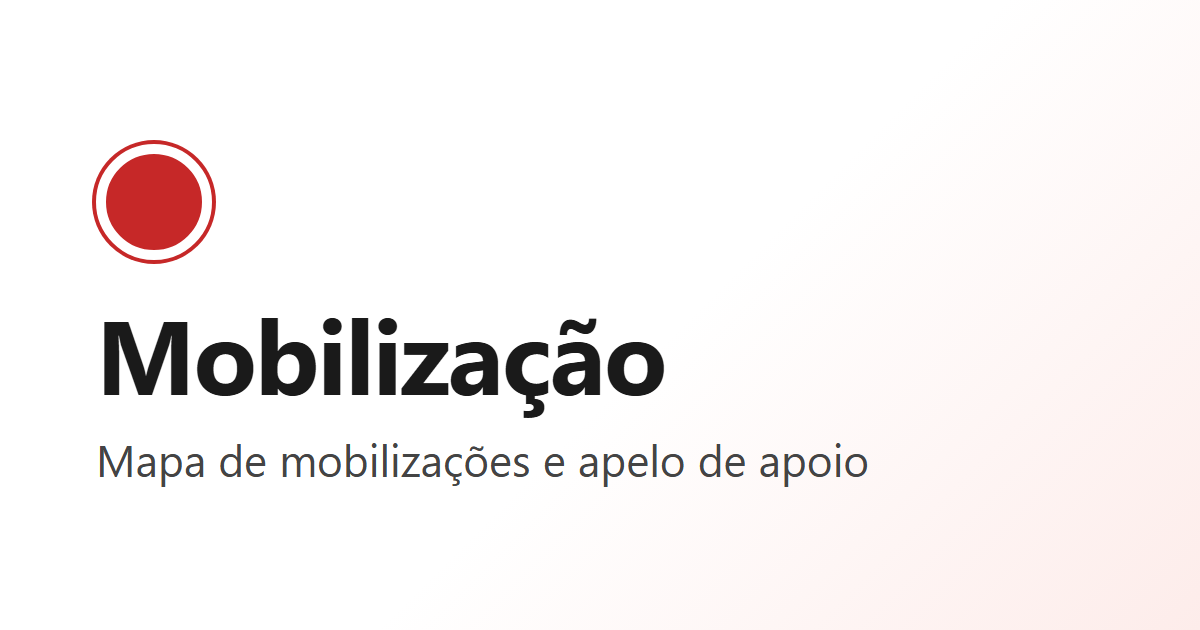
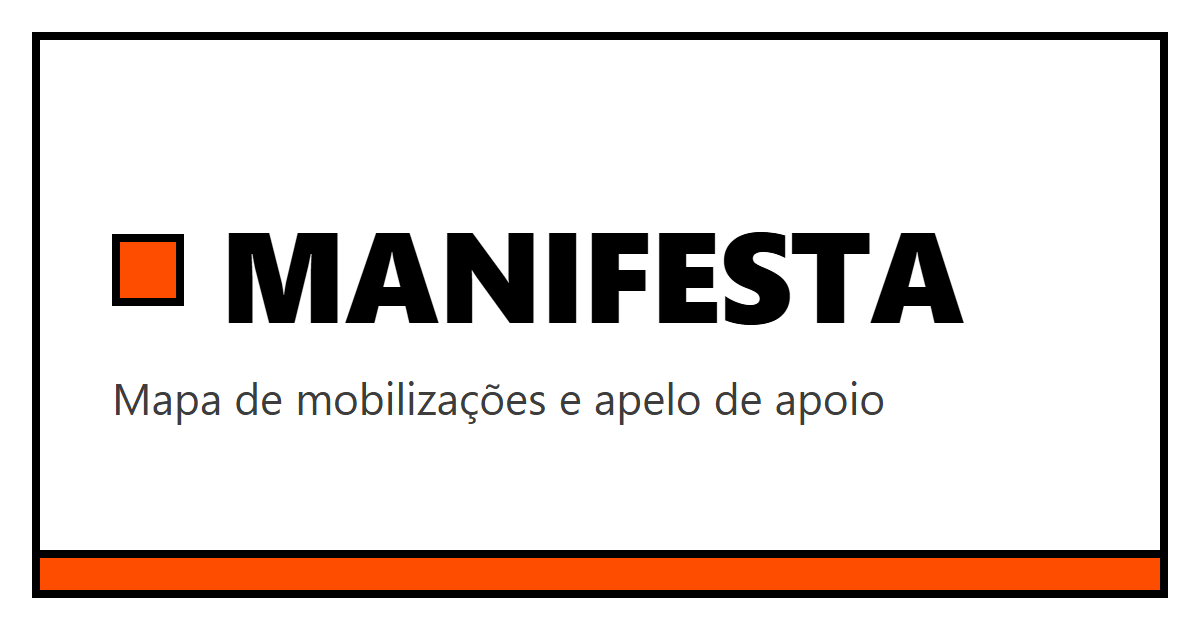
Move to manifesta.pt and rename the site to "Manifesta"
- Worker custom domain manifesta.pt; pedroduarte.eu and www will 301 via
  zone Redirect Rules (docs/deploy.md §9).
- APP_NAME and site title "Manifesta"; drop the Porto mayor domain note,
  which only existed because of the old domain.
- Link-preview image redrawn in the acid theme.
- Decision #75; D2 closed.

Changed region(s): [[0.0, 0.0302, 0.9867, 0.9651], [0.0617, 0.2111, 0.8017, 0.6635], [0.0617, 0.6937, 0.74, 0.7841]]

diff --git a/scripts/og-image.ts b/scripts/og-image.ts
@@ -11,19 +11,25 @@ const OUT = resolve(import.meta.dirname, '../public/og.png');
 
 const esc = (s: string) => s.replace(/[&<>"]/g, (c) => `&#${c.charCodeAt(0)};`);
 
+// Acid theme (src/styles/base.css, docs/decisions.md #70): white, black lines,
+// orange accent, square marks, heavy uppercase title.
 const html = `<!doctype html><html lang="pt-PT"><head><meta charset="utf-8"><style>
-  body { margin: 0; width: 1200px; height: 630px; display: flex; align-items: center;
-    font-family: system-ui, 'Segoe UI', sans-serif; color: #1a1a1a;
-    background: linear-gradient(135deg, #fff 0%, #fff 55%, #fdecea 100%); }
-  .wrap { padding: 0 96px; }
-  .dot { width: 96px; height: 96px; border-radius: 50%; background: #c62828;
-    border: 10px solid #fff; box-shadow: 0 0 0 4px #c62828; margin-bottom: 40px; }
-  h1 { font-size: 104px; line-height: 1; margin: 0 0 28px; letter-spacing: -2px; }
-  p { font-size: 44px; line-height: 1.25; margin: 0; color: #444; max-width: 900px; }
-</style></head><body><div class="wrap">
-  <div class="dot"></div>
-  <h1>${esc(pt.site.title)}</h1>
+  * { box-sizing: border-box; }
+  body { margin: 0; width: 1200px; height: 630px; background: #fff; color: #000;
+    font-family: 'Archivo', system-ui, sans-serif; }
+  .frame { position: absolute; inset: 32px; border: 8px solid #000; display: flex;
+    flex-direction: column; justify-content: center; padding: 0 72px; }
+  .bar { position: absolute; left: 0; right: 0; bottom: 0; height: 40px; background: #ff4d00;
+    border-top: 8px solid #000; }
+  .title { display: flex; align-items: center; gap: 36px; margin-bottom: 36px; }
+  .mark { width: 72px; height: 72px; flex: none; background: #ff4d00; border: 8px solid #000; }
+  h1 { font-size: 128px; font-weight: 800; line-height: 1; margin: 0; letter-spacing: -2px;
+    text-transform: uppercase; }
+  p { font-size: 44px; line-height: 1.25; margin: 0; color: #3d3d3d; max-width: 900px; }
+</style></head><body><div class="frame">
+  <div class="title"><div class="mark"></div><h1>${esc(pt.site.title)}</h1></div>
   <p>${esc(pt.site.tagline)}</p>
+  <div class="bar"></div>
 </div></body></html>`;
 
 const browser = await chromium.launch();

diff --git a/tests/e2e/map.spec.ts b/tests/e2e/map.spec.ts
@@ -124,7 +124,7 @@ test.describe('map page (/)', () => {
   }) => {
     await page.goto('/mapa?quando=hoje');
     await expect(page).toHaveURL(/\/\?quando=hoje$/);
-    await expect(page.getByRole('heading', { level: 1, name: 'Mobilização' })).toBeVisible();
+    await expect(page.getByRole('heading', { level: 1, name: 'Manifesta' })).toBeVisible();
   });
 
   test('the intro makes room for the filters and the event sheet on a phone', async ({
@@ -135,16 +135,13 @@ test.describe('map page (/)', () => {
     const intro = page.locator('.map-app .map-intro');
     await expect(intro).toBeVisible();
     await expect(intro).toContainText('Manifestações, concentrações e assembleias');
-    await expect(intro).toContainText(
-      'não tem qualquer ligação ao Presidente da Câmara Municipal do Porto',
-    );
     await shot(page, '00-intro', info.project.name);
 
     await page.locator('#summary-button').click();
     await expect(page.locator('#filters')).toBeVisible();
     await expect(intro).toBeHidden();
     // The h1 stays for screen readers.
-    await expect(page.getByRole('heading', { level: 1, name: 'Mobilização' })).toBeAttached();
+    await expect(page.getByRole('heading', { level: 1, name: 'Manifesta' })).toBeAttached();
 
     // Choosing an event closes the filters.
     await page.getByRole('button', { name: 'Ver resultados' }).click();

diff --git a/src/i18n/pt.ts b/src/i18n/pt.ts
@@ -1,9 +1,9 @@
 /** All UI strings, in European Portuguese (pt-PT). */
 export const pt = {
   site: {
-    title: 'Mobilização',
+    title: 'Manifesta',
     tagline: 'Mapa de mobilizações e apelo de apoio',
-    ogImageAlt: 'Mobilização: mapa de eventos e apelo de apoio',
+    ogImageAlt: 'Manifesta: mapa de eventos e apelo de apoio',
   },
   nav: {
     map: 'Mapa',
@@ -24,8 +24,6 @@ export const pt = {
     heading: 'Mapa de eventos',
     description:
       'Manifestações, concentrações e assembleias em todo o país, do continente às ilhas. Filtra por dia e tipo, ou adiciona um evento.',
-    domainNote:
-      'Este site é um projeto independente e não tem qualquer ligação ao Presidente da Câmara Municipal do Porto nem à Câmara Municipal. A semelhança do nome é pura coincidência.',
     noscript:
       'O mapa e a lista de eventos precisam de JavaScript. Ativa o JavaScript no teu browser para os veres.',
     loading: 'A carregar eventos…',

diff --git a/src/config/app.ts b/src/config/app.ts
@@ -1,7 +1,7 @@
 /** App-wide configuration. See docs/decisions.md for the reasoning behind each default. */
 
 /** D2 — placeholder until name/domain is decided. */
-export const APP_NAME = 'Mobilização';
+export const APP_NAME = 'Manifesta';
 
 /** D8 — data controller (GDPR). Must be filled in before launch (phase 7). */
 export const DATA_CONTROLLER = {

diff --git a/src/components/map/MapIntro.tsx b/src/components/map/MapIntro.tsx
@@ -22,7 +22,6 @@ export function MapIntro({ hidden = false, shell = false }: Props) {
         </Title>
       </div>
       <p>{pt.map.description}</p>
-      <p class="map-intro-note">{pt.map.domainNote}</p>
     </section>
   );
 }

diff --git a/src/styles/map.css b/src/styles/map.css
@@ -81,12 +81,6 @@ body.map-page {
   text-wrap: pretty;
 }
 
-.map-intro > .map-intro-note {
-  font-size: 0.75rem;
-  line-height: 1.35;
-  color: var(--muted);
-}
-
 .topbar {
   flex: 0 0 auto;
   display: flex;

diff --git a/docs/decisions.md b/docs/decisions.md
@@ -4,16 +4,16 @@ Registo das decisões tomadas, por ordem. Para as decisões em aberto do `SPEC.m
 
 ## Decisões em aberto (SPEC §11) — 2026-10-17
 
-| #   | Decisão                            | Valor                                                        | Estado                                                                                                                      |
-| --- | ---------------------------------- | ------------------------------------------------------------ | --------------------------------------------------------------------------------------------------------------------------- |
-| D1  | Alojamento                         | Cloudflare (Workers + D1 + R2)                               | Confirmada. Lógica isolada em `services/` e na porta `Db` (`src/server/repos/db.ts`), para poder trocar para Node + SQLite. |
-| D2  | Nome/domínio/identidade            | Placeholder `APP_NAME = 'Mobilização'` (`src/config/app.ts`) | **Por decidir**                                                                                                             |
-| D3  | `MODERATION_MODE`                  | `post` (publica logo, com selo "não confirmado")             | Confirmada                                                                                                                  |
-| D4  | Provider de email                  | Resend (atrás da interface `Mailer`)                         | Confirmada; implementação na Fase 5                                                                                         |
-| D5  | `KEY_DATES`                        | Nenhuma                                                      | Confirmada                                                                                                                  |
-| D6  | Concelho vs código postal          | Concelho (select com os 308)                                 | Confirmada                                                                                                                  |
-| D7  | Camadas de dados abertos           | Fora da v1                                                   | Confirmada                                                                                                                  |
-| D8  | Responsável pelo tratamento (RGPD) | Placeholder `DATA_CONTROLLER` em `src/config/app.ts`         | **Por decidir** antes da Fase 7                                                                                             |
+| #   | Decisão                            | Valor                                                           | Estado                                                                                                                      |
+| --- | ---------------------------------- | --------------------------------------------------------------- | --------------------------------------------------------------------------------------------------------------------------- |
+| D1  | Alojamento                         | Cloudflare (Workers + D1 + R2)                                  | Confirmada. Lógica isolada em `services/` e na porta `Db` (`src/server/repos/db.ts`), para poder trocar para Node + SQLite. |
+| D2  | Nome/domínio/identidade            | "Manifesta" em `manifesta.pt` (`APP_NAME`, `src/config/app.ts`) | Confirmada (#65, #75)                                                                                                       |
+| D3  | `MODERATION_MODE`                  | `post` (publica logo, com selo "não confirmado")                | Confirmada                                                                                                                  |
+| D4  | Provider de email                  | Resend (atrás da interface `Mailer`)                            | Confirmada; implementação na Fase 5                                                                                         |
+| D5  | `KEY_DATES`                        | Nenhuma                                                         | Confirmada                                                                                                                  |
+| D6  | Concelho vs código postal          | Concelho (select com os 308)                                    | Confirmada                                                                                                                  |
+| D7  | Camadas de dados abertos           | Fora da v1                                                      | Confirmada                                                                                                                  |
+| D8  | Responsável pelo tratamento (RGPD) | Placeholder `DATA_CONTROLLER` em `src/config/app.ts`            | **Por decidir** antes da Fase 7                                                                                             |
 
 ## Datas e filtros
 
@@ -222,7 +222,7 @@ Registo das decisões tomadas, por ordem. Para as decisões em aberto do `SPEC.m
 
 ## Deploy (17/10/2026)
 
-65. **D2 — domínio:** `pedroduarte.eu` (Custom Domain do Worker, `[[routes]]` no `wrangler.toml`). O nome do site continua "Mobilização" (`APP_NAME`, por decidir).
+65. **D2 — domínio:** `pedroduarte.eu` (Custom Domain do Worker, `[[routes]]` no `wrangler.toml`). O nome do site continua "Mobilização" (`APP_NAME`, por decidir). Substituído por `manifesta.pt` em #75.
 66. **Recursos de produção** (conta Cloudflare do utilizador): D1 `mobilizacao-pt` e bucket R2 `mobilizacao-tiles`, ambos na Europa Ocidental (`weur`); KV `RATE_LIMIT`. Mapa base: extrato do build Protomaps `20261017` (zoom 0–15, 1,06 GB), carregado com `rclone`.
 67. **Turnstile em modo Managed** (escolha do utilizador): normalmente invisível; mostra uma caixa a confirmar só quando a Cloudflare tem dúvidas. O cliente já usa `appearance: 'interaction-only'`, por isso o widget só aparece nesses casos.
 68. **Administração:** para já, um único endereço em `ADMIN_EMAILS` (secret).
@@ -230,7 +230,7 @@ Registo das decisões tomadas, por ordem. Para as decisões em aberto do `SPEC.m
     - O GeoJSON ficava 60 s em cache no browser e na edge, e o mapa voltava a pedir a lista e recebia a cópia antiga.
     - Agora a cache de 60 s é só na edge. O browser recebe `max-age=0, must-revalidate`; o mesmo vale para `/api/events/:id` e para os contadores e a lista das assinaturas.
     - Criar, editar, reportar ou moderar um evento apaga a cópia da edge no centro de dados de quem fez a alteração, e o mapa pede a lista sem cache depois de criar. Quem muda vê na hora; os outros visitantes, no máximo 60 s depois.
-    - `wrangler dev` passa a usar `--local-upstream`: com a rota `pedroduarte.eu` no `wrangler.toml`, os pedidos locais passariam a ter o URL de produção (links de email locais errados e a caixa de correio de dev bloqueada).
+    - `wrangler dev` passa a usar `--local-upstream`: com a rota do domínio de produção no `wrangler.toml`, os pedidos locais passariam a ter o URL de produção (links de email locais errados e a caixa de correio de dev bloqueada).
 
 ## Tema ácido (17/10/2026)
 
@@ -262,3 +262,13 @@ Registo das decisões tomadas, por ordem. Para as decisões em aberto do `SPEC.m
     - Os dias são gerados no cliente pelo filtro puro (`withOngoingDays` em `src/shared/event-filter.ts`, recebe `now`): uma ocorrência "todo o dia" por data local, de ontem (termina às 06:00, #73) até `LIMITS.dayStripDays` dias à frente, nunca antes de `ongoingSince`. Assim não é preciso cron e a cache do GeoJSON não fica desatualizada. Datas reais ficam como estão (a sua hora; cancelada continua cancelada).
     - Ficha e lista mostram uma linha "Todos os dias desde seg, 12 out" em vez das datas; a ficha lista só as datas reais, não as geradas.
     - Retenção: eventos sem fim nunca são apagados automaticamente; para os limpar, tira-se a marca.
+
+## Domínio manifesta.pt (19/10/2026)
+
+75. **Domínio principal `manifesta.pt` e nome "Manifesta"** (D2 fechada).
+    - Custom Domain do Worker passa a `manifesta.pt` (`[[routes]]` no `wrangler.toml`); `PUBLIC_SITE_URL=https://manifesta.pt` no `.env.production`. `APP_NAME` e `pt.site.title` passam a "Manifesta"; `public/og.png` regenerado, agora com o tema ácido (moldura preta, quadrado laranja, título em maiúsculas; `scripts/og-image.ts`).
+    - `pedroduarte.eu` responde 301 para `https://manifesta.pt`, com o mesmo caminho e a query, através de uma Redirect Rule na zona (corre antes do Worker, por isso apanha também os ficheiros estáticos). Os links já partilhados (`/mapa/e/<id>`) e os links de edição (`/editar/#…`, o browser mantém o fragmento) continuam a funcionar.
+    - `www.manifesta.pt` responde 301 para o apex, também por Redirect Rule.
+    - A nota "sem ligação ao Presidente da Câmara Municipal do Porto" (`pt.map.domainNote`) foi retirada: só existia por causa do domínio antigo.
+    - Os recursos internos mantêm o nome (Worker e D1 `mobilizacao-pt`, bucket `mobilizacao-tiles`): renomeá-los obrigaria a migrar os dados e os tiles, sem ganho para quem visita.
+    - Os links nos emails continuam a usar a origem do pedido, por isso não há URLs de produção no código.

diff --git a/docs/deploy.md b/docs/deploy.md
@@ -5,7 +5,7 @@ Os comandos são para PowerShell; com `npx`, corre-os na raiz do projeto.
 
 ## 0. Antes de começar
 
-- **Domínio (D2)** na Cloudflare, por exemplo `exemplo.pt`. É preciso para o Resend (emails de
+- **Domínio (D2)** na Cloudflare: `manifesta.pt` (`docs/decisions.md` #75). É preciso para o Resend (emails de
   entrada no admin) e para os URLs absolutos das pré-visualizações de links. O `*.workers.dev`
   chega para testar.
 - **Plano Workers Paid (5 USD/mês), recomendado.** No plano gratuito:
@@ -55,7 +55,7 @@ email só serve para os links de entrada no admin.
 npx wrangler secret put TURNSTILE_SECRET_KEY
 npx wrangler secret put RATE_LIMIT_SECRET   # node -e "console.log(require('crypto').randomBytes(32).toString('base64url'))"
 npx wrangler secret put RESEND_API_KEY
-npx wrangler secret put MAIL_FROM           # ex.: Mobilização <nao-responder@exemplo.pt>
+npx wrangler secret put MAIL_FROM           # ex.: Manifesta <nao-responder@manifesta.pt>
 npx wrangler secret put ADMIN_EMAILS        # ex.: pessoa1@exemplo.pt,pessoa2@exemplo.pt
 ```
 
@@ -69,7 +69,7 @@ do Astro e pelo `deploy:check`). Variáveis definidas na shell têm precedência
 ```powershell
 # .env.production
 # PUBLIC_TURNSTILE_SITE_KEY=<site key do widget>
-# PUBLIC_SITE_URL=https://exemplo.pt
+# PUBLIC_SITE_URL=https://manifesta.pt
 npm run og:image        # se o nome do site mudou (D2)
 npm run deploy
 ```
@@ -95,7 +95,20 @@ O `npm run deploy` faz, por ordem:
 - [ ] O Cron Trigger aparece no painel do Worker.
 - [ ] Lighthouse em produção, já com HTTPS.
 
-## 9. Operação
+## 9. Domínios antigos e `www`
+
+Redirecionam por Redirect Rules no painel da Cloudflare (não passam pelo Worker):
+
+- Zona `pedroduarte.eu`: Single Redirect, hostname igual a `pedroduarte.eu`, URL dinâmico
+  `concat("https://manifesta.pt", http.request.uri.path)`, 301, manter a query string. Se a zona
+  não tiver nenhum registo DNS com proxy (o Custom Domain antigo deixou de existir), cria
+  `AAAA @ 100::` com proxy para a regra disparar.
+- Zona `manifesta.pt`: registo `AAAA www 100::` com proxy e a mesma regra para
+  `www.manifesta.pt`.
+- Verificar: `curl -sI https://pedroduarte.eu/mapa/e/<id>?x=1` dá `301` com
+  `location: https://manifesta.pt/mapa/e/<id>?x=1`.
+
+## 10. Operação
 
 | Para…                                   | Comando                                                                |
 | --------------------------------------- | ---------------------------------------------------------------------- |

diff --git a/SPEC.md b/SPEC.md
@@ -164,7 +164,7 @@ Todos os tipos usam o mesmo pin quadrado preto; o tipo distingue-se pelo pictogr
 O mapa é a página de entrada. `/mapa` redireciona (301) para `/`, mantendo os filtros do URL; as fichas continuam em `/mapa/e/<id>`.
 
 Layout telemóvel (de cima para baixo):
-0. Introdução: "Mobilização" + uma frase sobre a plataforma (`pt.map.description`) + uma nota a dizer que o site é independente e não tem ligação ao Presidente da Câmara Municipal do Porto nem à Câmara (`pt.map.domainNote`). Esconde-se (só visualmente; o `h1` fica para leitores de ecrã) enquanto o painel de filtros ou a ficha de um evento estão abertos. Abrir os filtros fecha a ficha; escolher um evento fecha os filtros. No desktop fica sempre visível no topo do painel lateral.
+0. Introdução: "Manifesta" + uma frase sobre a plataforma (`pt.map.description`). Esconde-se (só visualmente; o `h1` fica para leitores de ecrã) enquanto o painel de filtros ou a ficha de um evento estão abertos. Abrir os filtros fecha a ficha; escolher um evento fecha os filtros. No desktop fica sempre visível no topo do painel lateral.
 1. Barra fixa: **resumo do filtro ativo** ("23 eventos · Este fim de semana") — tocar abre o painel de filtros.
 2. Mapa em ecrã inteiro.
 3. Botões flutuantes: 📍 *Perto de mim* (geolocalização no browser; nada é enviado ao servidor), 🔍 *Procurar local*, ➕ *Adicionar evento*.
